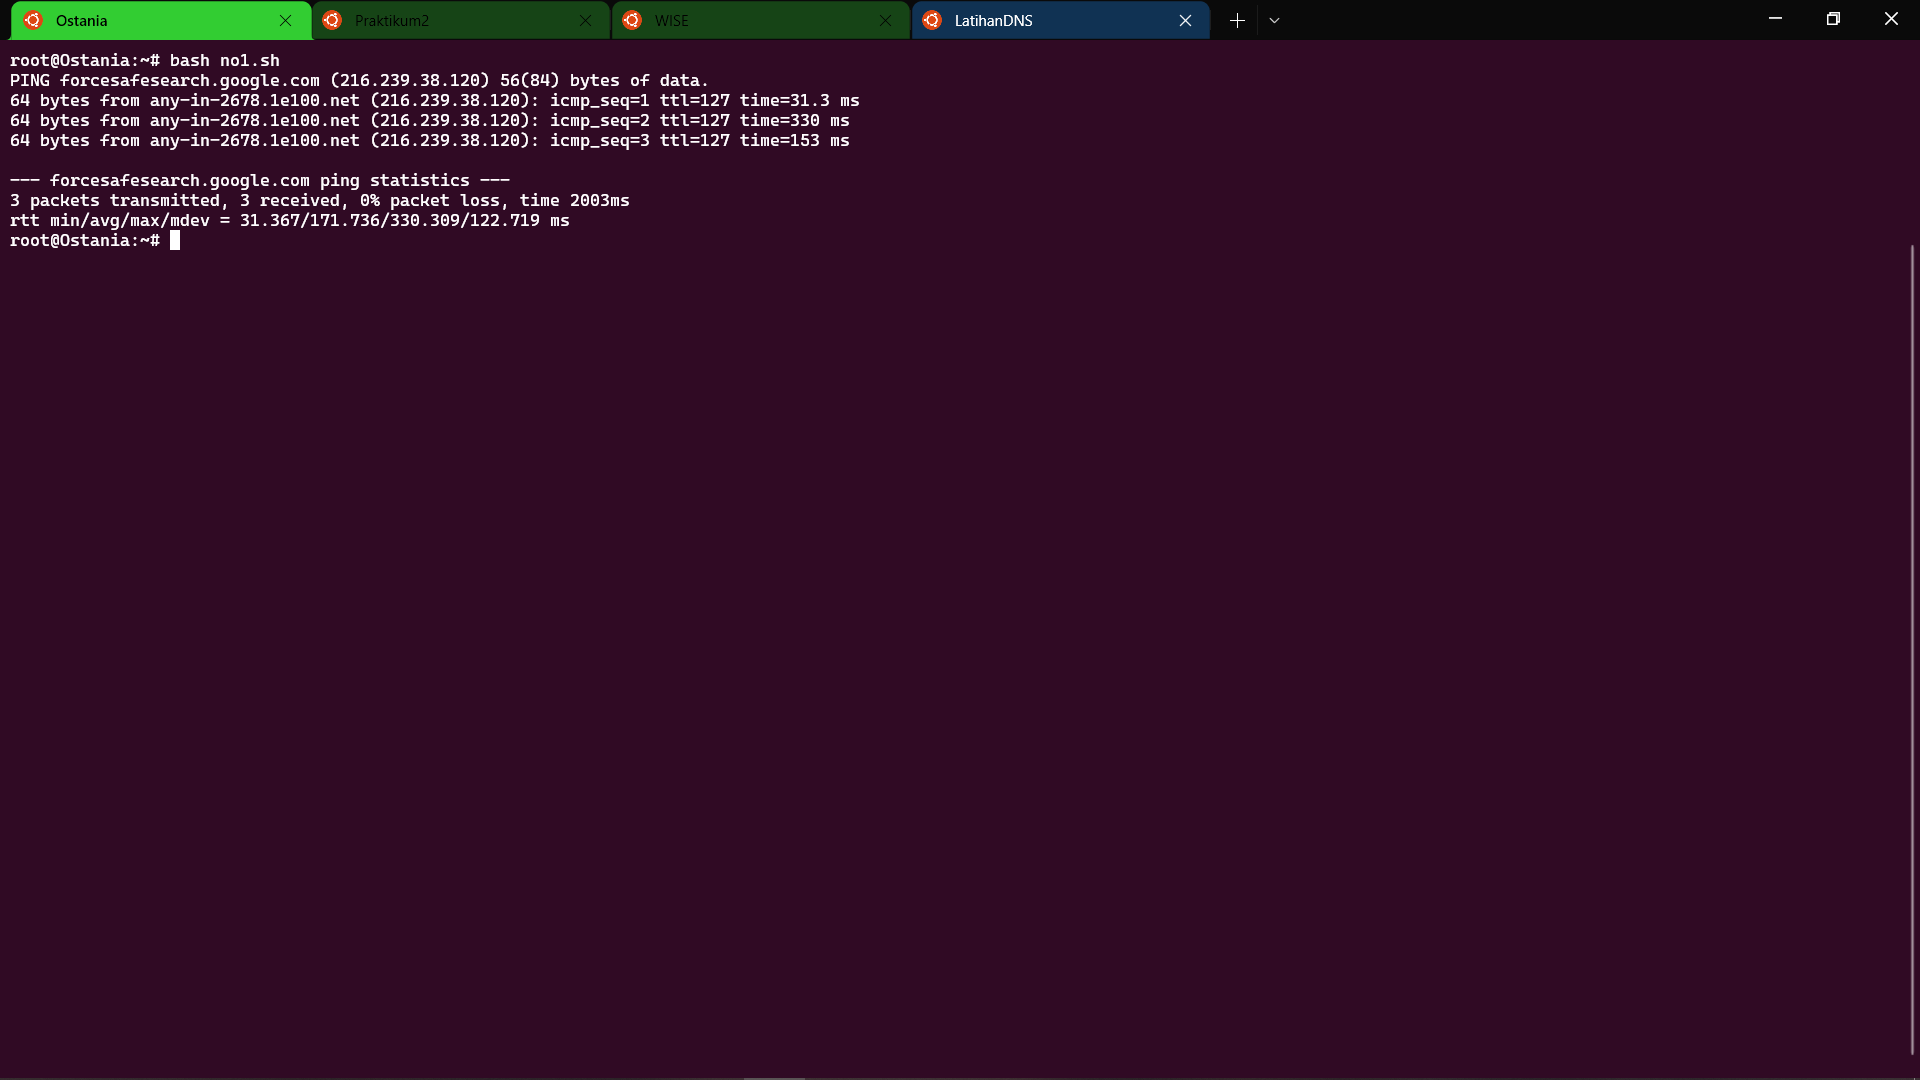
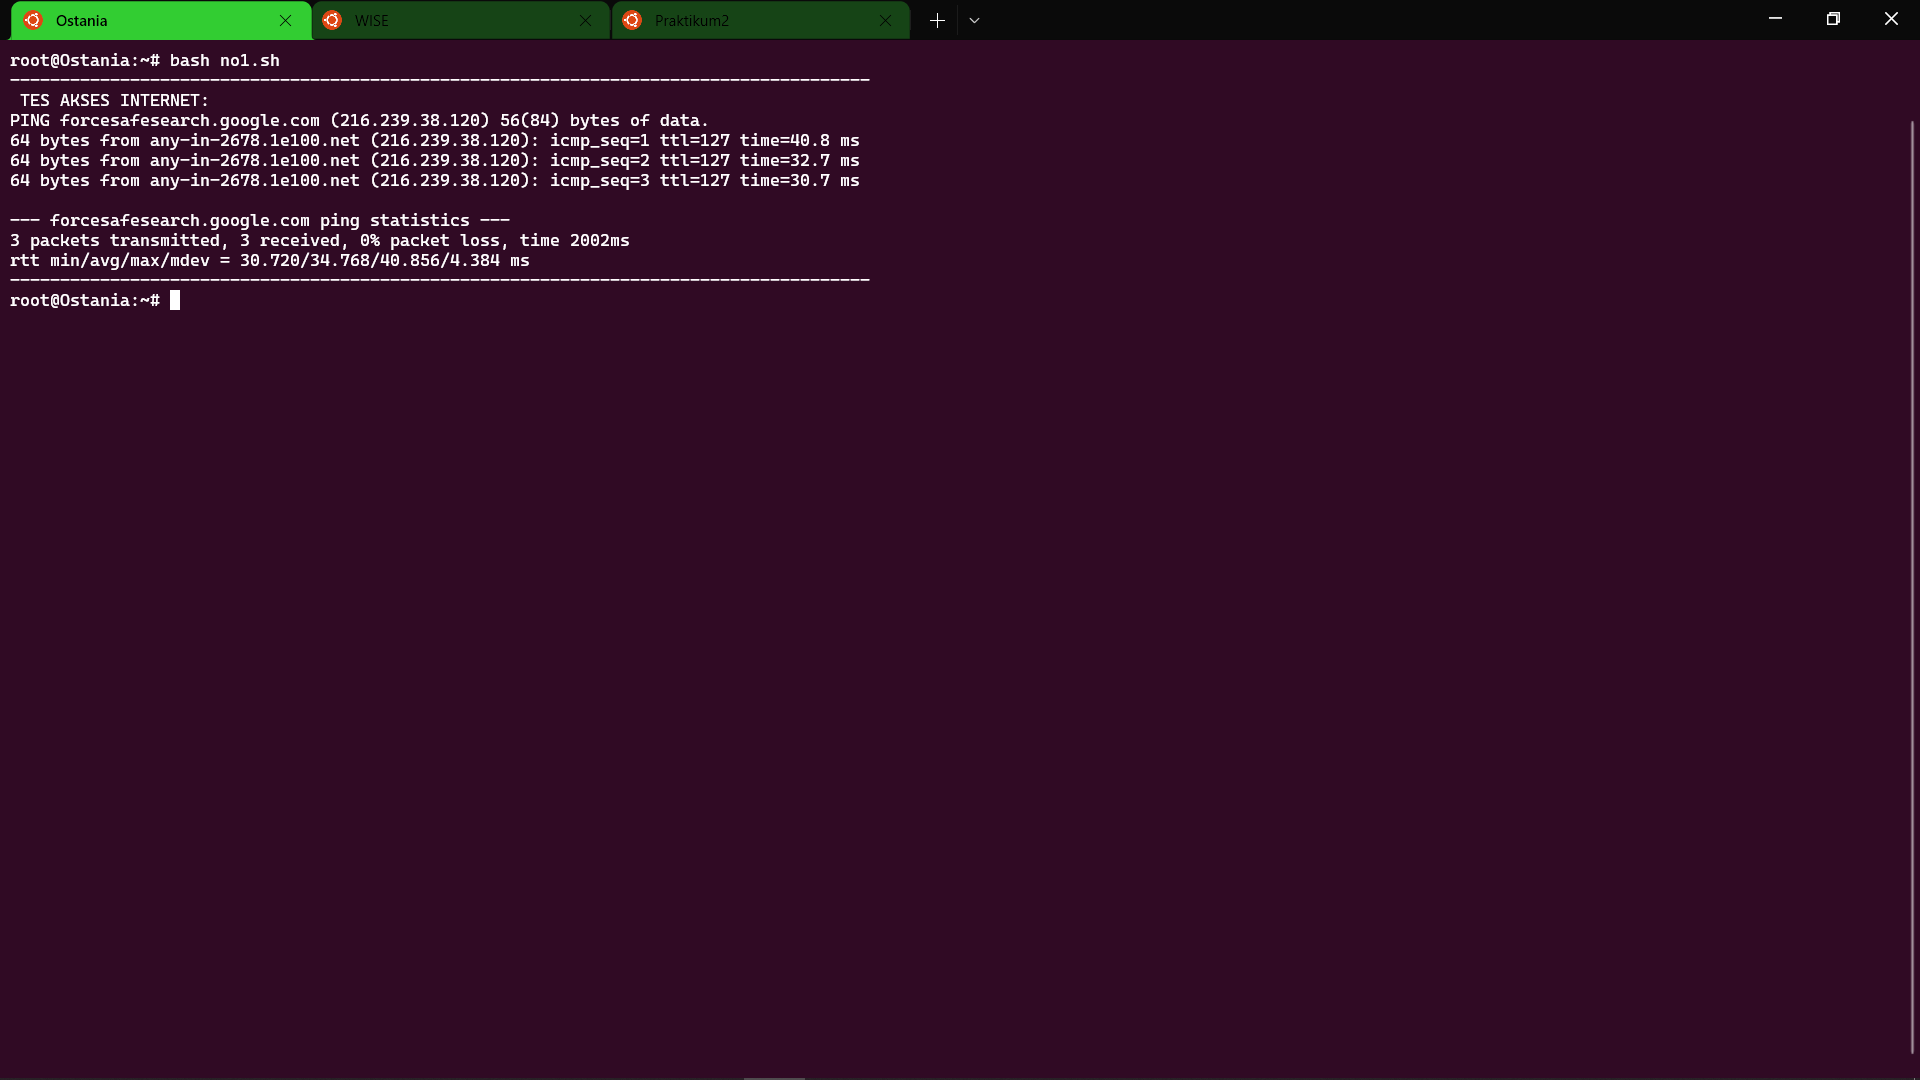
selesai soal no 1

diff --git a/README.md b/README.md
@@ -175,9 +175,14 @@ Pada initial project, kami mengubah `root/.bashrc` masing-masing node sehingga s
 ## Question 1
 > WISE akan dijadikan sebagai DNS Master, Berlint akan dijadikan DNS Slave, dan Eden akan digunakan sebagai Web Server. Terdapat 2 Client yaitu SSS, dan Garden. Semua node terhubung pada router Ostania, sehingga dapat mengakses internet
 ### Script
+Setelah berhasil melakukan konfigurasi dan selesai menjalankan start command, kita akan melakukan pengecekan internet untuk semua node dengan melakukan ping terhadap `google.com`
 - Semua Node
     
     ```
+    echo -e "--------------------------------------------------------------------------------------"
+    echo " TES AKSES INTERNET:"
+    ping google.com -c 3
+    echo -e "--------------------------------------------------------------------------------------"
     ```
 ### Test
 ![image](https://raw.githubusercontent.com/Chroax/Jarkom-Modul-2-B11-2022/main/image/Soal1/Capture1.PNG)
